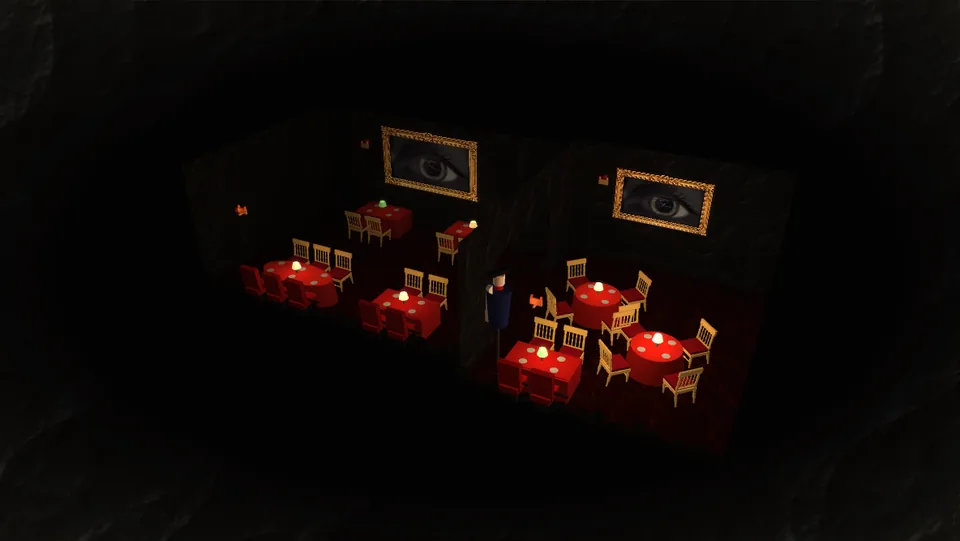
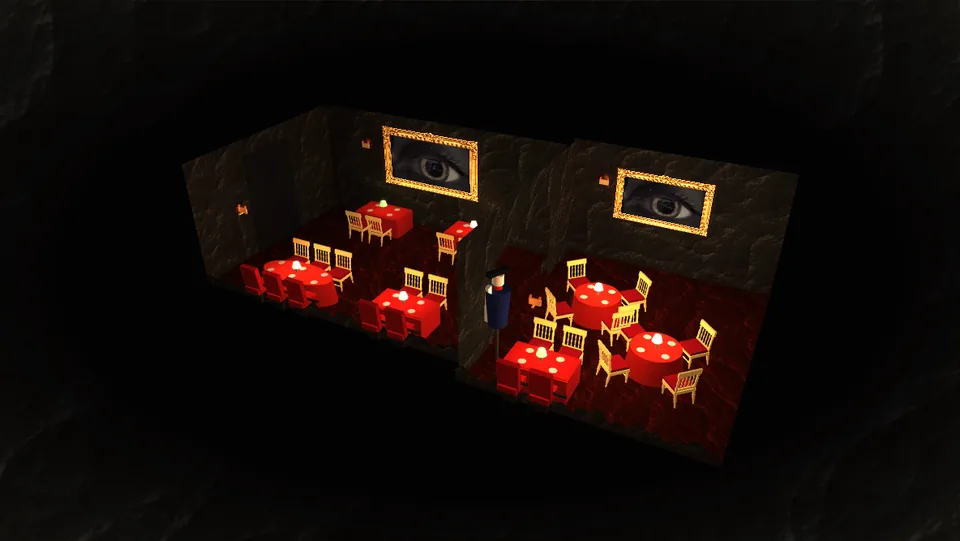
Grotte Napoléon : la salle 3D moins sombre
Claude-Session: https://claude.ai/code/session_01Tg9JuR8WfKBoHUYi3GMpp1

diff --git a/clients/la-grotte-napoleon/salle.js b/clients/la-grotte-napoleon/salle.js
@@ -116,7 +116,7 @@
   const NL = N + LAMPES.length + APPLIQUES.length;
 
   /* ---------- les shaders ---------- */
-  const brume = `vec3 brume(vec3 c, vec3 w, vec3 e){ float d = length(w - e); return mix(c, vec3(.012,.009,.007), smoothstep(10.0, 18.0, d) * .85); }`;
+  const brume = `vec3 brume(vec3 c, vec3 w, vec3 e){ float d = length(w - e); return mix(c, vec3(.012,.009,.007), smoothstep(12.0, 20.0, d) * .8); }`;
   const VS = `precision mediump float; attribute vec3 p; attribute vec2 t; attribute vec3 nr; uniform mat4 P, V;
     varying vec2 uv; varying vec3 w, n;
     void main(){ w = p; uv = t; n = nr; gl_Position = P * V * vec4(p, 1.0); }`;
@@ -130,11 +130,11 @@
       vec3 base = col;
       if (orne > .5) { vec4 m = texture2D(motif, uv); if (m.a < .5) discard; base = m.rgb * 1.1; } /* le cadre doré : ses moulures, son ouverture vide */
       if (tex > .5) base *= texture2D(roche, fract((abs(n0.y) > .5 ? w.xz : vec2(w.x + w.z, w.y)) * .32)).rgb * 1.7;
-      vec3 l = base * vec3(.022,.02,.02);
+      vec3 l = base * vec3(.075,.066,.062);
       for (int i = 0; i < ${NL}; i++) { vec3 d = lp[i] - w; float r = length(d); d /= r;
-        float lam = max(dot(nn, d), 0.0) * .8 + .2; l += base * lc[i] * lam / (1.0 + r * r * (i < ${N} ? .3 : 2.4)); }
+        float lam = max(dot(nn, d), 0.0) * .8 + .2; l += base * lc[i] * lam / (1.0 + r * r * (i < ${N} ? .22 : 1.3)); }
       l += brille * base;
-      if (tex > .5) l += base * vec3(.075,.012,.008) * (1.0 - smoothstep(0.0, 1.3, w.y)); /* le rouge du sol et des nappes renvoyé sur le bas de la roche */
+      if (tex > .5) l += base * vec3(.13,.03,.02) * (1.0 - smoothstep(0.0, 1.5, w.y)); /* le rouge du sol et des nappes renvoyé sur le bas de la roche */
       if (dos > .5 && dot(n0, oeil - w) < 0.0) l = vec3(.035,.028,.02) + l * .08; /* vu de dos : le bois sombre */
       gl_FragColor = vec4(brume(l, w, oeil), 1.0); }`);
   gl.useProgram(pLum); gl.uniform1i(gl.getUniformLocation(pLum, "motif"), 1); /* le cadre doré sur l'unité de texture 1 */
@@ -283,13 +283,13 @@
     /* les lumières : les écrans (couleur du film), les lampes des tables et les appliques (vacillement) */
     const lp = new Float32Array(NL * 3), lc = new Float32Array(NL * 3);
     ECRANS.forEach(([c, nrm], i) => { lp.set([c[0] + nrm[0] * .45, c[1], c[2] + nrm[2] * .45], i * 3); lc.set(teinte.map(v => v * 2.1), i * 3); });
-    LAMPES.forEach(([x, z], i) => { const f = .9 + .07 * Math.sin(t * 7.1 + i * 2); lp.set([x, HT + .3, z], (N + i) * 3); lc.set(i % 3 === 1 ? [.8 * f, .85 * f, .45 * f] : [1.05 * f, .88 * f, .55 * f], (N + i) * 3); });
+    LAMPES.forEach(([x, z], i) => { const f = .9 + .07 * Math.sin(t * 7.1 + i * 2); lp.set([x, HT + .3, z], (N + i) * 3); lc.set(i % 3 === 1 ? [1.0 * f, 1.05 * f, .55 * f] : [1.3 * f, 1.1 * f, .7 * f], (N + i) * 3); });
     APPLIQUES.forEach((a, i) => { const f = .8 + .12 * Math.sin(t * 9.3 + i * 3) + .08 * Math.sin(t * 21.7 + i); lp.set(a, (N + LAMPES.length + i) * 3); lc.set([.9 * f, .22 * f, .08 * f], (N + LAMPES.length + i) * 3); });
     gl.clearColor(.012, .009, .007, 1); gl.enable(gl.DEPTH_TEST); gl.depthMask(true); gl.disable(gl.BLEND); gl.clear(gl.COLOR_BUFFER_BIT | gl.DEPTH_BUFFER_BIT);
     gl.activeTexture(gl.TEXTURE0); gl.bindTexture(gl.TEXTURE_2D, texRoche);
     const lum = (g, col, extra = {}) => { gl.useProgram(pLum); gl.uniform3fv(gl.getUniformLocation(pLum, "lp"), lp); gl.uniform3fv(gl.getUniformLocation(pLum, "lc"), lc); dessine(pLum, g, { ...VIDE, V, oeil, col, ...extra }); };
-    lum(solPlat, [.62, .1, .08], { tex: 1 });
-    lum(parois, [.5, .47, .45], { tex: 1, coupe: 1, brille: .012 });
+    lum(solPlat, [.85, .16, .12], { tex: 1 });
+    lum(parois, [.72, .68, .64], { tex: 1, coupe: 1, brille: .03 });
     lum(rideau, [.07, .06, .06], { coupe: 1 });
     lum(tables, [.7, .08, .07]); for (const [dessus, tour] of rondes) { lum(tour, [.62, .07, .05]); lum(dessus, [.78, .12, .08]); }
     lum(fauteuils, [.62, .05, .05]); lum(fauteuilsPied, [.12, .08, .06]);

diff --git a/clients/la-grotte-napoleon/boutique.html b/clients/la-grotte-napoleon/boutique.html
@@ -272,6 +272,6 @@
 
 <script src="produits.js?v=20261102b"></script>
 <script src="textes.js?v=20261102b"></script>
-<script src="grotte.js?v=20261102c"></script>
+<script src="grotte.js?v=20261102d"></script>
 </body>
 </html>

diff --git a/clients/la-grotte-napoleon/panier.html b/clients/la-grotte-napoleon/panier.html
@@ -81,6 +81,6 @@
 
 <script src="produits.js?v=20261102b"></script>
 <script src="textes.js?v=20261102b"></script>
-<script src="grotte.js?v=20261102c"></script>
+<script src="grotte.js?v=20261102d"></script>
 </body>
 </html>

diff --git a/clients/la-grotte-napoleon/produit.html b/clients/la-grotte-napoleon/produit.html
@@ -91,6 +91,6 @@
 
 <script src="produits.js?v=20261102b"></script>
 <script src="textes.js?v=20261102b"></script>
-<script src="grotte.js?v=20261102c"></script>
+<script src="grotte.js?v=20261102d"></script>
 </body>
 </html>

diff --git a/clients/la-grotte-napoleon/reserver.html b/clients/la-grotte-napoleon/reserver.html
@@ -94,6 +94,6 @@
 </div>
 
 <script src="textes.js?v=20261102b"></script>
-<script src="grotte.js?v=20261102c"></script>
+<script src="grotte.js?v=20261102d"></script>
 </body>
 </html>

diff --git a/clients/la-grotte-napoleon/formules.html b/clients/la-grotte-napoleon/formules.html
@@ -147,6 +147,6 @@
 
 
 <script src="textes.js?v=20261102b"></script>
-<script src="grotte.js?v=20261102c"></script>
+<script src="grotte.js?v=20261102d"></script>
 </body>
 </html>

diff --git a/clients/la-grotte-napoleon/index.html b/clients/la-grotte-napoleon/index.html
@@ -205,6 +205,6 @@
 
 
 <script src="textes.js?v=20261102b"></script>
-<script src="grotte.js?v=20261102c"></script>
+<script src="grotte.js?v=20261102d"></script>
 </body>
 </html>

diff --git a/clients/la-grotte-napoleon/NOTES.md b/clients/la-grotte-napoleon/NOTES.md
@@ -71,3 +71,4 @@ Tout ce qui a été fait, décidé ou refusé sur ce site (repris de `ETAT.md` l
 - **La salle 3D d’après la vidéo de l’utilisateur (2 novembre 2026)** : la grande salle est longue, avec le long des DEUX murs des tables collées au mur, une rangée de fauteuils de cinéma rouges contre le mur et des chaises dorées côté allée, un écran à cadre doré sur chaque mur, le rideau noir au bout (cuisine derrière) et des rideaux sur le mur droit près de l’arcade ; une arcade de roche large et basse (linteau irrégulier) ; la salle du fond, plus large : deux tables rondes avec chaises dorées, une table collée à chaque mur, des fauteuils de cinéma le long des murs, trois écrans (gauche, fond, droite ; celui de droite est caché par l’arcade depuis la grande salle), un mannequin en costume. Cinq écrans en tout.
 - **30 places exactement (2 novembre 2026, précision de l’utilisateur)** : grande salle 18 places (à gauche deux tables de 4, à droite une table de 4 et une de 6 ; chaque table : moitié fauteuils de cinéma côté mur, moitié chaises dorées côté allée) ; salle du fond 12 places (deux tables rondes de 4, une table de 4 contre le mur droit). Les rangées de fauteuils en plus le long des murs du fond sont retirées.
 - **La maquette 3D rapprochée des photos et de la vidéo (2 novembre 2026, demande de l’utilisateur : « le plus fidèle possible »)** : relevé sur la photo de la salle (`images/salle-ecrans.webp`) et les plans de la salle dans `seance.mp4` (les autres photos et la vidéo de la salle envoyées dans les discussions précédentes ne sont pas dans le dépôt). Changements dans `salle.js` : la roche est **noire** et ne se voit que là où les lampes et les écrans l’éclairent (ambiance presque nulle, rouge renvoyé par le sol et les nappes sur le bas des murs, écrans qui éclairent davantage la roche autour d’eux) ; sol d’un seul rouge sombre (plus de chemin de tapis) ; écrans plus grands et plus hauts, presque au plafond ; la grande table de droite est **ovale** comme sur la photo (les troncs et disques acceptent une échelle en x) ; une **assiette de présentation argentée par place** ; lampes à abat-jour **crème à la couronne** (celles de la vidéo) ou **vert** (celles de la photo, une sur trois), lumière chaude ; appliques à bougies avec un bras doré et deux ampoules rouges, lumière rouge ; le mannequin porte un bicorne et un plastron blanc. Image de secours `salle-affiche.webp` refaite (capture avec le film sur les écrans : le Chromium de test ne lit pas le H.264, on lui sert une version WebM du film à la place ; script de capture dans le bloc-notes de la session). Pages en `grotte.js?v=20261102c`.
+- **Moins sombre (2 novembre 2026, demande de l’utilisateur)** : lumière d’ambiance de la roche et du sol relevée (environ trois fois), lampes et écrans qui portent plus loin, rouge renvoyé sur le bas des murs plus marqué, roche et sol un peu plus clairs, brume repoussée. La salle reste une salle sombre, mais on lit toute la disposition d’un coup d’œil. Image de secours refaite. Pages en `grotte.js?v=20261102d`.
